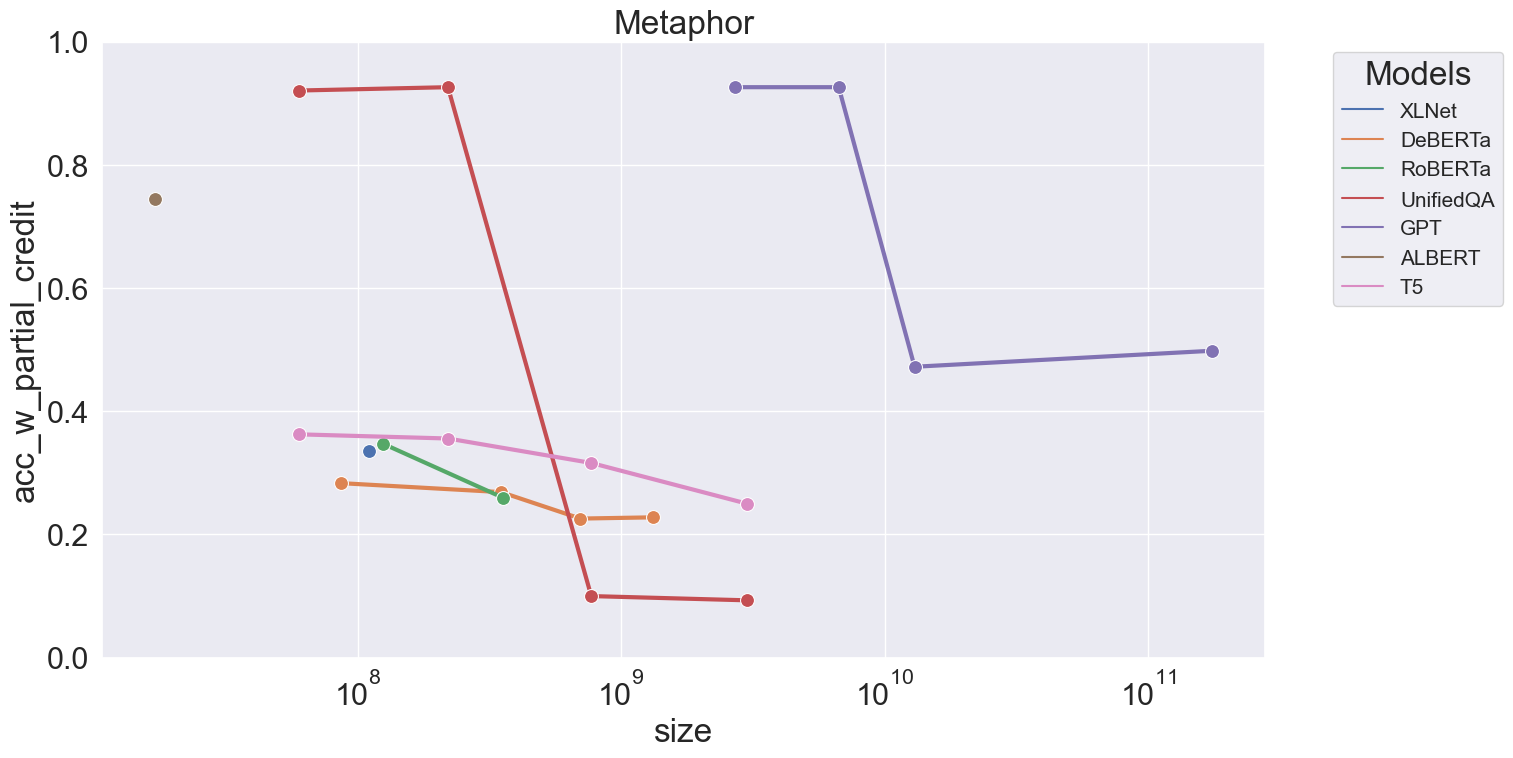
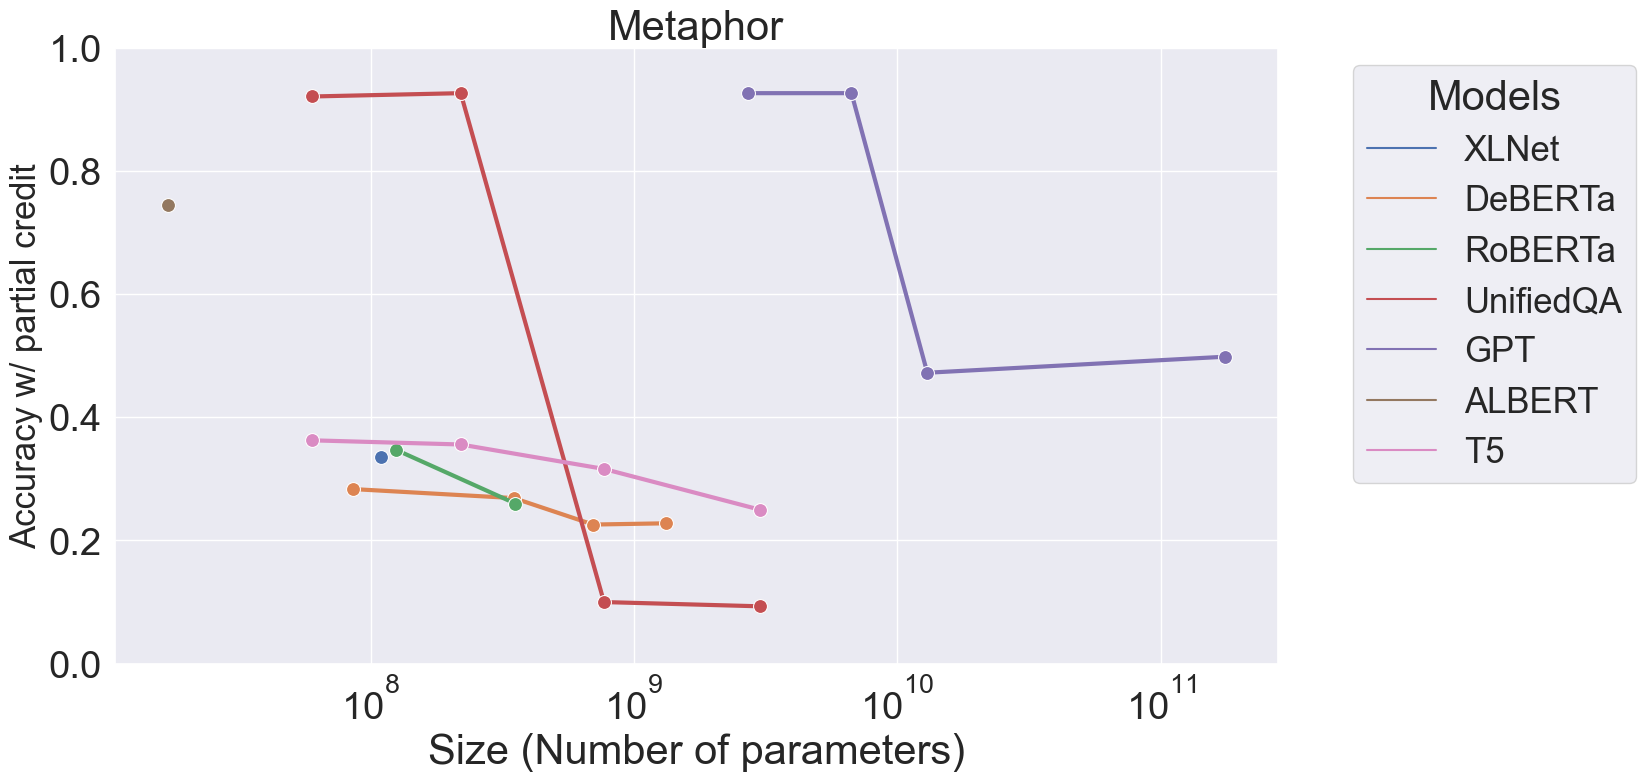
update figures

diff --git a/src/visualization.py b/src/visualization.py
@@ -87,6 +87,14 @@ def model_name_size(model, path):
         temp['model'] = np.NaN
     return temp
 
+def get_largest(df):
+    df_largest = pd.DataFrame()
+    for model in list(df.model.unique()):
+        df = df[df['size'].notna()]
+        max_size = df[df['model'] == model]['size'].max()
+        temp = df[df['size'] == max_size]
+        df_largest = pd.concat([df_largest, temp], ignore_index=True)
+    return df_largest
 
 def get_analysis_df(analysis_file_path):
 
@@ -181,16 +189,9 @@ def make_figure_analysis(df_path, output_dir):
     boxplt_1.figure.savefig('{}/Box plot of Reasoning type vs test accuracy.png'.format(output_dir), bbox_inches='tight')
     
     # Box plot of Reasoning type vs Test accuracy with the largest size
-    df_largest = pd.DataFrame()
-    for model in list(df.model.unique()):
-        max_size = df[df['model'] == model]['size'].max()
-        temp = df[df['size'] == max_size]
-        df_largest = pd.concat([df_largest, temp], ignore_index=True)
-    df_largest
-
     plt.figure(figsize=(10,6), dpi=120)
     sns.set(font_scale=1.5)
-    boxplt_largest_size = sns.boxplot(x='reasoning_type', y='test_acc', data=df_largest, palette='vlag')
+    boxplt_largest_size = sns.boxplot(x='reasoning_type', y='test_acc', data=get_largest(df), palette='vlag')
     sns.stripplot(x='reasoning_type', y='test_acc', data=df,size=3, color='.3')
     boxplt_largest_size.set_xticklabels(boxplt_1.get_xticklabels(), rotation=20, ha="right", fontsize=15)
     boxplt_largest_size.set(xlabel='Reasoning type', ylabel='Test accuracy')
@@ -234,7 +235,7 @@ def make_figure_summary(df_path, output_dir):
     sns.set_theme(style="whitegrid")
     sns.set(font_scale=2)
 
-    # Model vs Accuracy without partial credit
+    # Model vs averaged Accuracy without partial credit among all size
     plt_1 = sns.catplot(data=df[df['size'].notna()], kind="bar", 
                     x="model", y="acc_wo_partial_credit", 
                     hue="reasoning_type", ci=None, alpha=.8, 
@@ -246,23 +247,51 @@ def make_figure_summary(df_path, output_dir):
     plt_1.set_xticklabels(rotation=10, fontsize=20)
     plt_1.legend.set_title("Reasoning type")
     plt_1.savefig('{}/Model vs Accuracy without partial credit.png'.format(output_dir))
-
-
-    # Model vs Accuracy with partial credit
-    sns.set_theme(style="whitegrid")
-    sns.set(font_scale=2)
-
-    plt_2 = sns.catplot(data=df[df['size'].notna()], kind="bar", 
-                    x="model", y="acc_w_partial_credit", 
+    
+    # Model vs Accuracy without partial credit of the largest model
+    plt_2 = sns.catplot(data=get_largest(df), kind="bar", 
+                    x="model", y="acc_wo_partial_credit", 
                     hue="reasoning_type", ci=None, alpha=.8, 
                     height=6, legend_out=True, aspect = 2
                     )
     plt_2.despine(left=True)
-    plt_2.set_axis_labels("Models", "Accuracy w/ partial credit")
+    plt_2.set_axis_labels("Models", "Accuracy w/o partial credit")
     plt_2.set(ylim=(0, 1))
     plt_2.set_xticklabels(rotation=10, fontsize=20)
     plt_2.legend.set_title("Reasoning type")
-    plt_2.savefig('{}/Model vs Accuracy with partial credit.png'.format(output_dir))
+    plt_2.savefig('{}/Model vs Accuracy without partial credit of the largest model.png'.format(output_dir))
+
+
+    # Model vs averaged Accuracy without partial credit among all size
+    sns.set_theme(style="whitegrid")
+    sns.set(font_scale=2)
+
+    plt_3 = sns.catplot(data=df[df['size'].notna()], kind="bar", 
+                    x="model", y="acc_w_partial_credit", 
+                    hue="reasoning_type", ci=None, alpha=.8, 
+                    height=6, legend_out=True, aspect = 2
+                    )
+    plt_3.despine(left=True)
+    plt_3.set_axis_labels("Models", "Accuracy w/ partial credit")
+    plt_3.set(ylim=(0, 1))
+    plt_3.set_xticklabels(rotation=10, fontsize=20)
+    plt_3.legend.set_title("Reasoning type")
+    plt_3.savefig('{}/Model vs Accuracy with partial credit.png'.format(output_dir))
+    
+    
+    # Model vs Accuracy with partial credit of the largest model
+    plt_4 = sns.catplot(data=get_largest(df), kind="bar", 
+                    x="model", y="acc_w_partial_credit", 
+                    hue="reasoning_type", ci=None, alpha=.8, 
+                    height=6, legend_out=True, aspect = 2
+                    )
+    plt_4.despine(left=True)
+    plt_4.set_axis_labels("Models", "Accuracy w/o partial credit")
+    plt_4.set(ylim=(0, 1))
+    plt_4.set_xticklabels(rotation=10, fontsize=20)
+    plt_4.legend.set_title("Reasoning type")
+    plt_4.savefig('{}/Model vs Accuracy with partial credit of the largest model.png'.format(output_dir))
+
 
 
 #     # Model vs Accuracy with partial credit with trimmed error bars
@@ -321,27 +350,27 @@ def make_figure_summary(df_path, output_dir):
     
     # Line plot of Size vs Accuracy w/ partial credit averaged over all catogries.
     plt.figure(figsize = (15,8))
-    sns.set(font_scale = 2)
-    line_plt = sns.lineplot(data=df[df['size'].notna()], x="size", y="acc_w_partial_credit", hue="model", err_style="bars", ci=68, markersize=15, linewidth = 3, style="model", markers=True)
-    line_plt.set(ylim=(0, 1))
-    line_plt.set(xscale='log')
+    sns.set(font_scale = 2.5)
+    line_plt_1 = sns.lineplot(data=df[df['size'].notna()], x="size", y="acc_w_partial_credit", hue="model", err_style="bars", ci=68, markersize=15, linewidth = 3, style="model", markers=True)
+    line_plt_1.set(ylim=(0, 1))
+    line_plt_1.set(xscale='log')
     #line_plt.set(xlabel='Size (Number of parameters)', ylabel='Accuracy w/ partial credit')
-    line_plt.set_xlabel("Size (Number of parameters)",fontsize=25)
-    line_plt.set_ylabel("Accuracy w/ partial credit",fontsize=25)
-    line_plt.legend(bbox_to_anchor=(1.05, 1), loc=2, fontsize='20').set_title("Models")
-    line_plt.figure.savefig('{}/Size vs Accuracy with partial credit averaged over all catogries.png'.format(output_dir), bbox_inches='tight')
+    line_plt_1.set_xlabel("Size (Number of parameters)",fontsize=30)
+    line_plt_1.set_ylabel("Accuracy w/ partial credit",fontsize=25)
+    line_plt_1.legend(bbox_to_anchor=(1.05, 1), loc=2, fontsize='25').set_title("Models")
+    line_plt_1.figure.savefig('{}/Size vs Accuracy with partial credit averaged over all catogries.png'.format(output_dir), bbox_inches='tight')
     
     # Line plot of Size vs Accuracy without partial credit averaged over all catogries
     plt.figure(figsize = (15,8))
-    sns.set(font_scale = 2)
-    line_plt = sns.lineplot(data=df[df['size'].notna()], x="size", y="acc_wo_partial_credit", hue="model", err_style="bars", ci=68, markersize=15, linewidth = 3, style="model", markers=True)
-    line_plt.set(ylim=(0, 1))
-    line_plt.set(xscale='log')
+    sns.set(font_scale = 2.5)
+    line_plt_2 = sns.lineplot(data=df[df['size'].notna()], x="size", y="acc_wo_partial_credit", hue="model", err_style="bars", ci=68, markersize=15, linewidth = 3, style="model", markers=True)
+    line_plt_2.set(ylim=(0, 1))
+    line_plt_2.set(xscale='log')
     #line_plt.set(xlabel='Size (Number of parameters)', ylabel='Accuracy w/ partial credit')
-    line_plt.set_xlabel("Size (Number of parameters)",fontsize=25)
-    line_plt.set_ylabel("Accuracy w/o partial credit",fontsize=25)
-    line_plt.legend(bbox_to_anchor=(1.05, 1), loc=2, fontsize='20').set_title("Models")
-    line_plt.figure.savefig('{}/Size vs Accuracy without partial credit averaged over all catogries.png'.format(output_dir), bbox_inches='tight')
+    line_plt_2.set_xlabel("Size (Number of parameters)",fontsize=30)
+    line_plt_2.set_ylabel("Accuracy w/o partial credit",fontsize=25)
+    line_plt_2.legend(bbox_to_anchor=(1.05, 1), loc=2, fontsize='25').set_title("Models")
+    line_plt_2.figure.savefig('{}/Size vs Accuracy without partial credit averaged over all catogries.png'.format(output_dir), bbox_inches='tight')
 
     
     
@@ -349,14 +378,14 @@ def make_figure_summary(df_path, output_dir):
     # Line plots of Size vs Accuracy w/ partial credit averaged by catogries.
     for i in ['motion', 'orientation', 'distance', 'containment', 'metaphor']:
         plt.figure(figsize = (15,8))
-        sns.set(font_scale = 2)
+        sns.set(font_scale = 2.5)
         temp_plt = sns.lineplot(data=df_with_size[df_with_size['reasoning_type'] == i], x="size", y="acc_w_partial_credit", hue="model", estimator = None, markersize=10, linewidth = 3, marker="o")
         temp_plt.set(ylim=(0, 1))
         temp_plt.set(title=i.capitalize())
-        line_plt.set_xlabel("Size (Number of parameters)",fontsize=25)
-        line_plt.set_ylabel("Accuracy w/ partial credit",fontsize=25)
+        temp_plt.set_xlabel("Size (Number of parameters)",fontsize=30)
+        temp_plt.set_ylabel("Accuracy w/ partial credit",fontsize=25)
         temp_plt.set(xscale='log')
-        temp_plt.legend(bbox_to_anchor=(1.05, 1), loc=2, fontsize='15').set_title("Models")
+        temp_plt.legend(bbox_to_anchor=(1.05, 1), loc=2, fontsize='25').set_title("Models")
         temp_plt.figure.savefig('{}/Size vs Accuracy with partial credit averaged over {}.png'.format(output_dir, i), bbox_inches='tight')
     
 
@@ -365,18 +394,18 @@ def make_figure_summary(df_path, output_dir):
     # Box plot of Reasoning type vs Accuracy with partial credit.
     plt.figure(figsize=(10,6), dpi=120)
     sns.set(font_scale=1.5)
-    boxplt_1 = sns.boxplot(x='reasoning_type', y='acc_w_partial_credit', data=df_with_size,palette='vlag')
+    boxplt_5 = sns.boxplot(x='reasoning_type', y='acc_w_partial_credit', data=df_with_size,palette='vlag')
     sns.stripplot(x='reasoning_type', y='acc_w_partial_credit', data=df,size=3, color='.3')
-    boxplt_1.set_xticklabels(boxplt_1.get_xticklabels(), rotation=40, ha="right", fontsize=15)
-    boxplt_1.set(xlabel='Reasoning type', ylabel='Accuracy w/ partial credit')
-    boxplt_1.figure.savefig('{}/Box plot of Reasoning type vs Accuracy with partial credit.png'.format(output_dir), bbox_inches='tight')
+    boxplt_5.set_xticklabels(boxplt_5.get_xticklabels(), rotation=40, ha="right", fontsize=15)
+    boxplt_5.set(xlabel='Reasoning type', ylabel='Accuracy w/ partial credit')
+    boxplt_5.figure.savefig('{}/Box plot of Reasoning type vs Accuracy with partial credit.png'.format(output_dir), bbox_inches='tight')
 
 
     # Box plot of Model vs Accuracy with partial credit
     plt.figure(figsize=(10,6), dpi=120)
     sns.set(font_scale=1.5)
-    boxplt_2 = sns.boxplot(x='model', y='acc_w_partial_credit', data=df_with_size,palette='vlag')
+    boxplt_6 = sns.boxplot(x='model', y='acc_w_partial_credit', data=df_with_size,palette='vlag')
     sns.stripplot(x='model', y='acc_w_partial_credit', data=df,size=3, color='.3')
-    boxplt_2.set_xticklabels(boxplt_2.get_xticklabels(), rotation=40, ha="right", fontsize=15)
-    boxplt_2.set(xlabel='Model', ylabel='Test accuracy')
-    boxplt_2.figure.savefig('{}/Box plot of Model vs Accuracy with partial credit.png'.format(output_dir), bbox_inches='tight')
+    boxplt_6.set_xticklabels(boxplt_6.get_xticklabels(), rotation=40, ha="right", fontsize=15)
+    boxplt_6.set(xlabel='Model', ylabel='Test accuracy')
+    boxplt_6.figure.savefig('{}/Box plot of Model vs Accuracy with partial credit.png'.format(output_dir), bbox_inches='tight')
